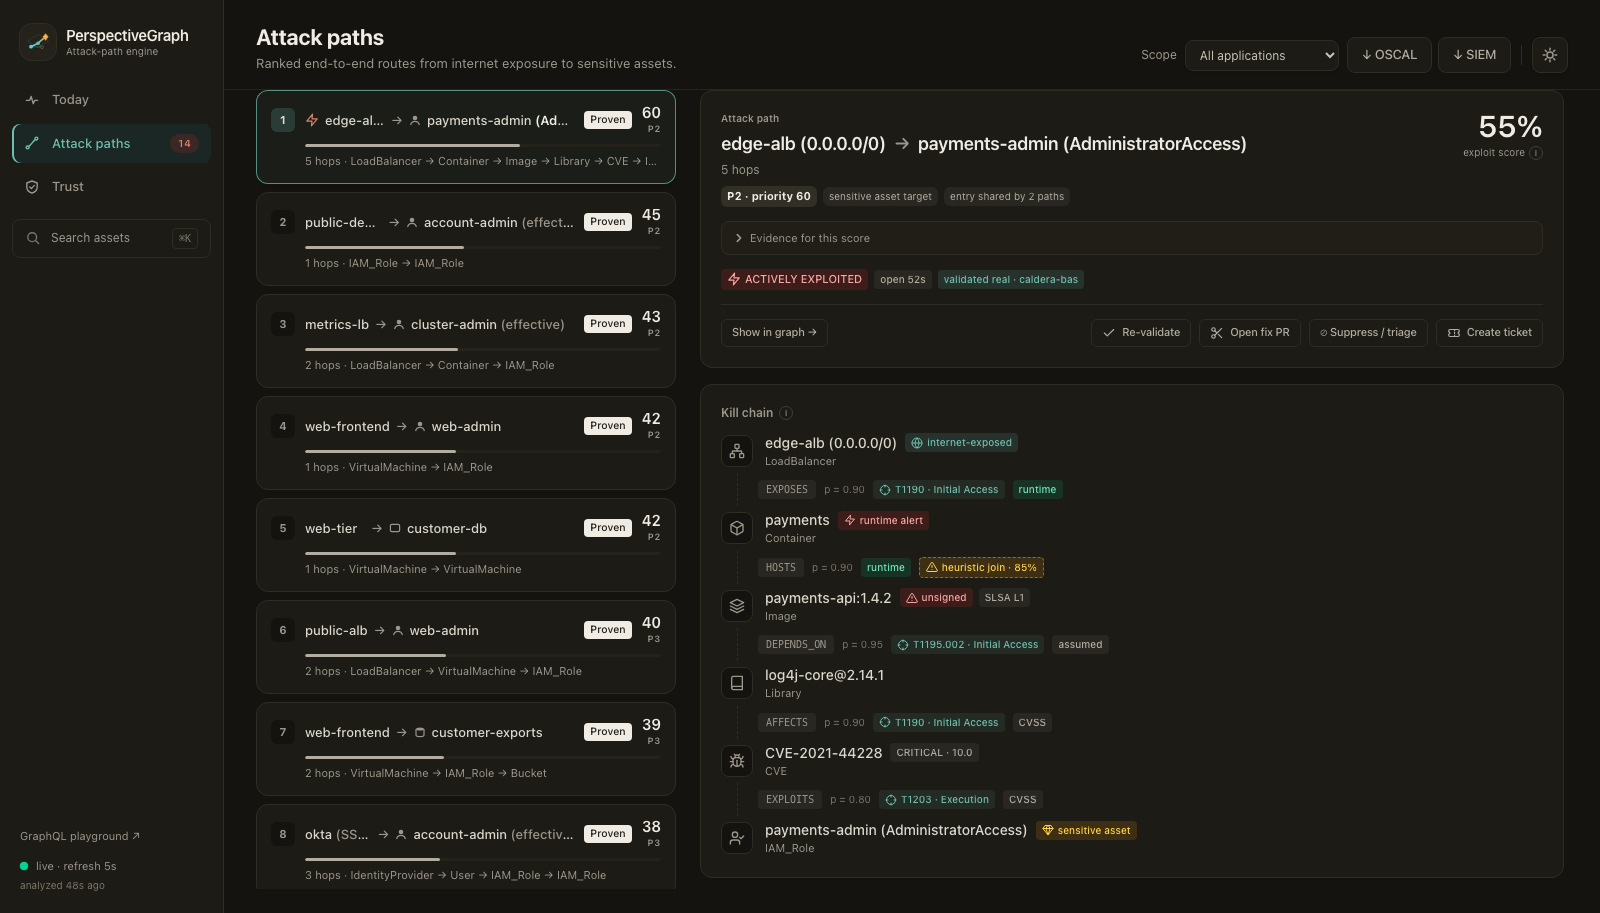
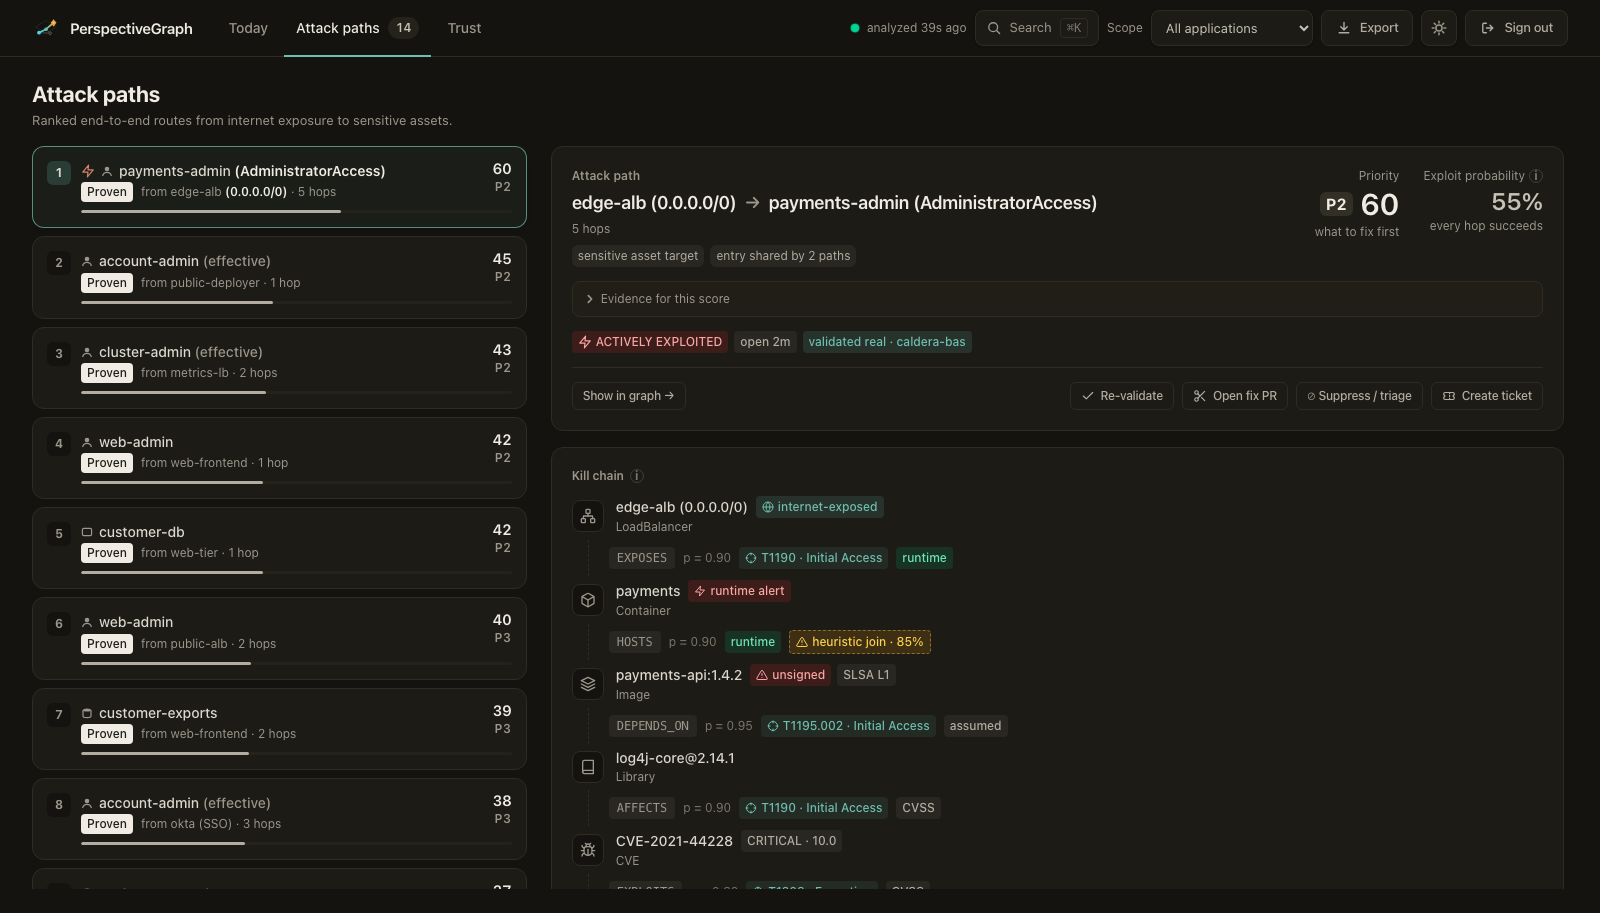
docs(readme): retake the screenshots and GIF on the top navigation
The capture scripts clicked sidebar buttons that no longer exist, and a click on nothing did not fail - every view would have been captured as Today under the other file names. A missing tab and any exception in the page now stop the run.

Taken signed in (PG_TOKEN), so the open-instance banner that make demo carries does not top every picture, with the dark theme set rather than inherited. The GIF's Python is chosen with PYTHON instead of a fixed Intel Homebrew path, and its caption now says twelve seconds, which is what it has always lasted.

diff --git a/README.md b/README.md
@@ -30,7 +30,7 @@ pull request.**
 
 ![PerspectiveGraph: from the day's exploitable routes to a generated fix](docs/demo.gif)
 
-*Twenty seconds of `make demo`: what is exploitable now → the ranked routes → one route's
+*Twelve seconds of `make demo`, signed in: what is exploitable now → the ranked routes → one route's
 kill chain and the fix it generates → whether the scores can be trusted. Sample scanner
 output and seeded verdicts, not a real environment.*
 
@@ -171,7 +171,7 @@ lower-scoring route can and does outrank a higher-scoring one.
 | ![Attack path detail](docs/screenshot-paths.png) | ![Score calibration](docs/screenshot-trust.png) |
 | Every hop, its probability, where that probability came from, and the ATT&CK technique. | Whether the engine's own scores held up against recorded outcomes. |
 
-*Every screenshot on this page is `make demo`: sample scanner output and **seeded**
+*Every screenshot on this page is `make demo`, signed in with a token: sample scanner output and **seeded**
 verdicts, not a real environment. That is why the calibration panel returns a verdict of
 "underconfident" - across 14 seeded outcomes the engine predicted 60% where 71% held up.
 Those outcomes were generated to exercise the instrument, not to flatter it. On a fresh
